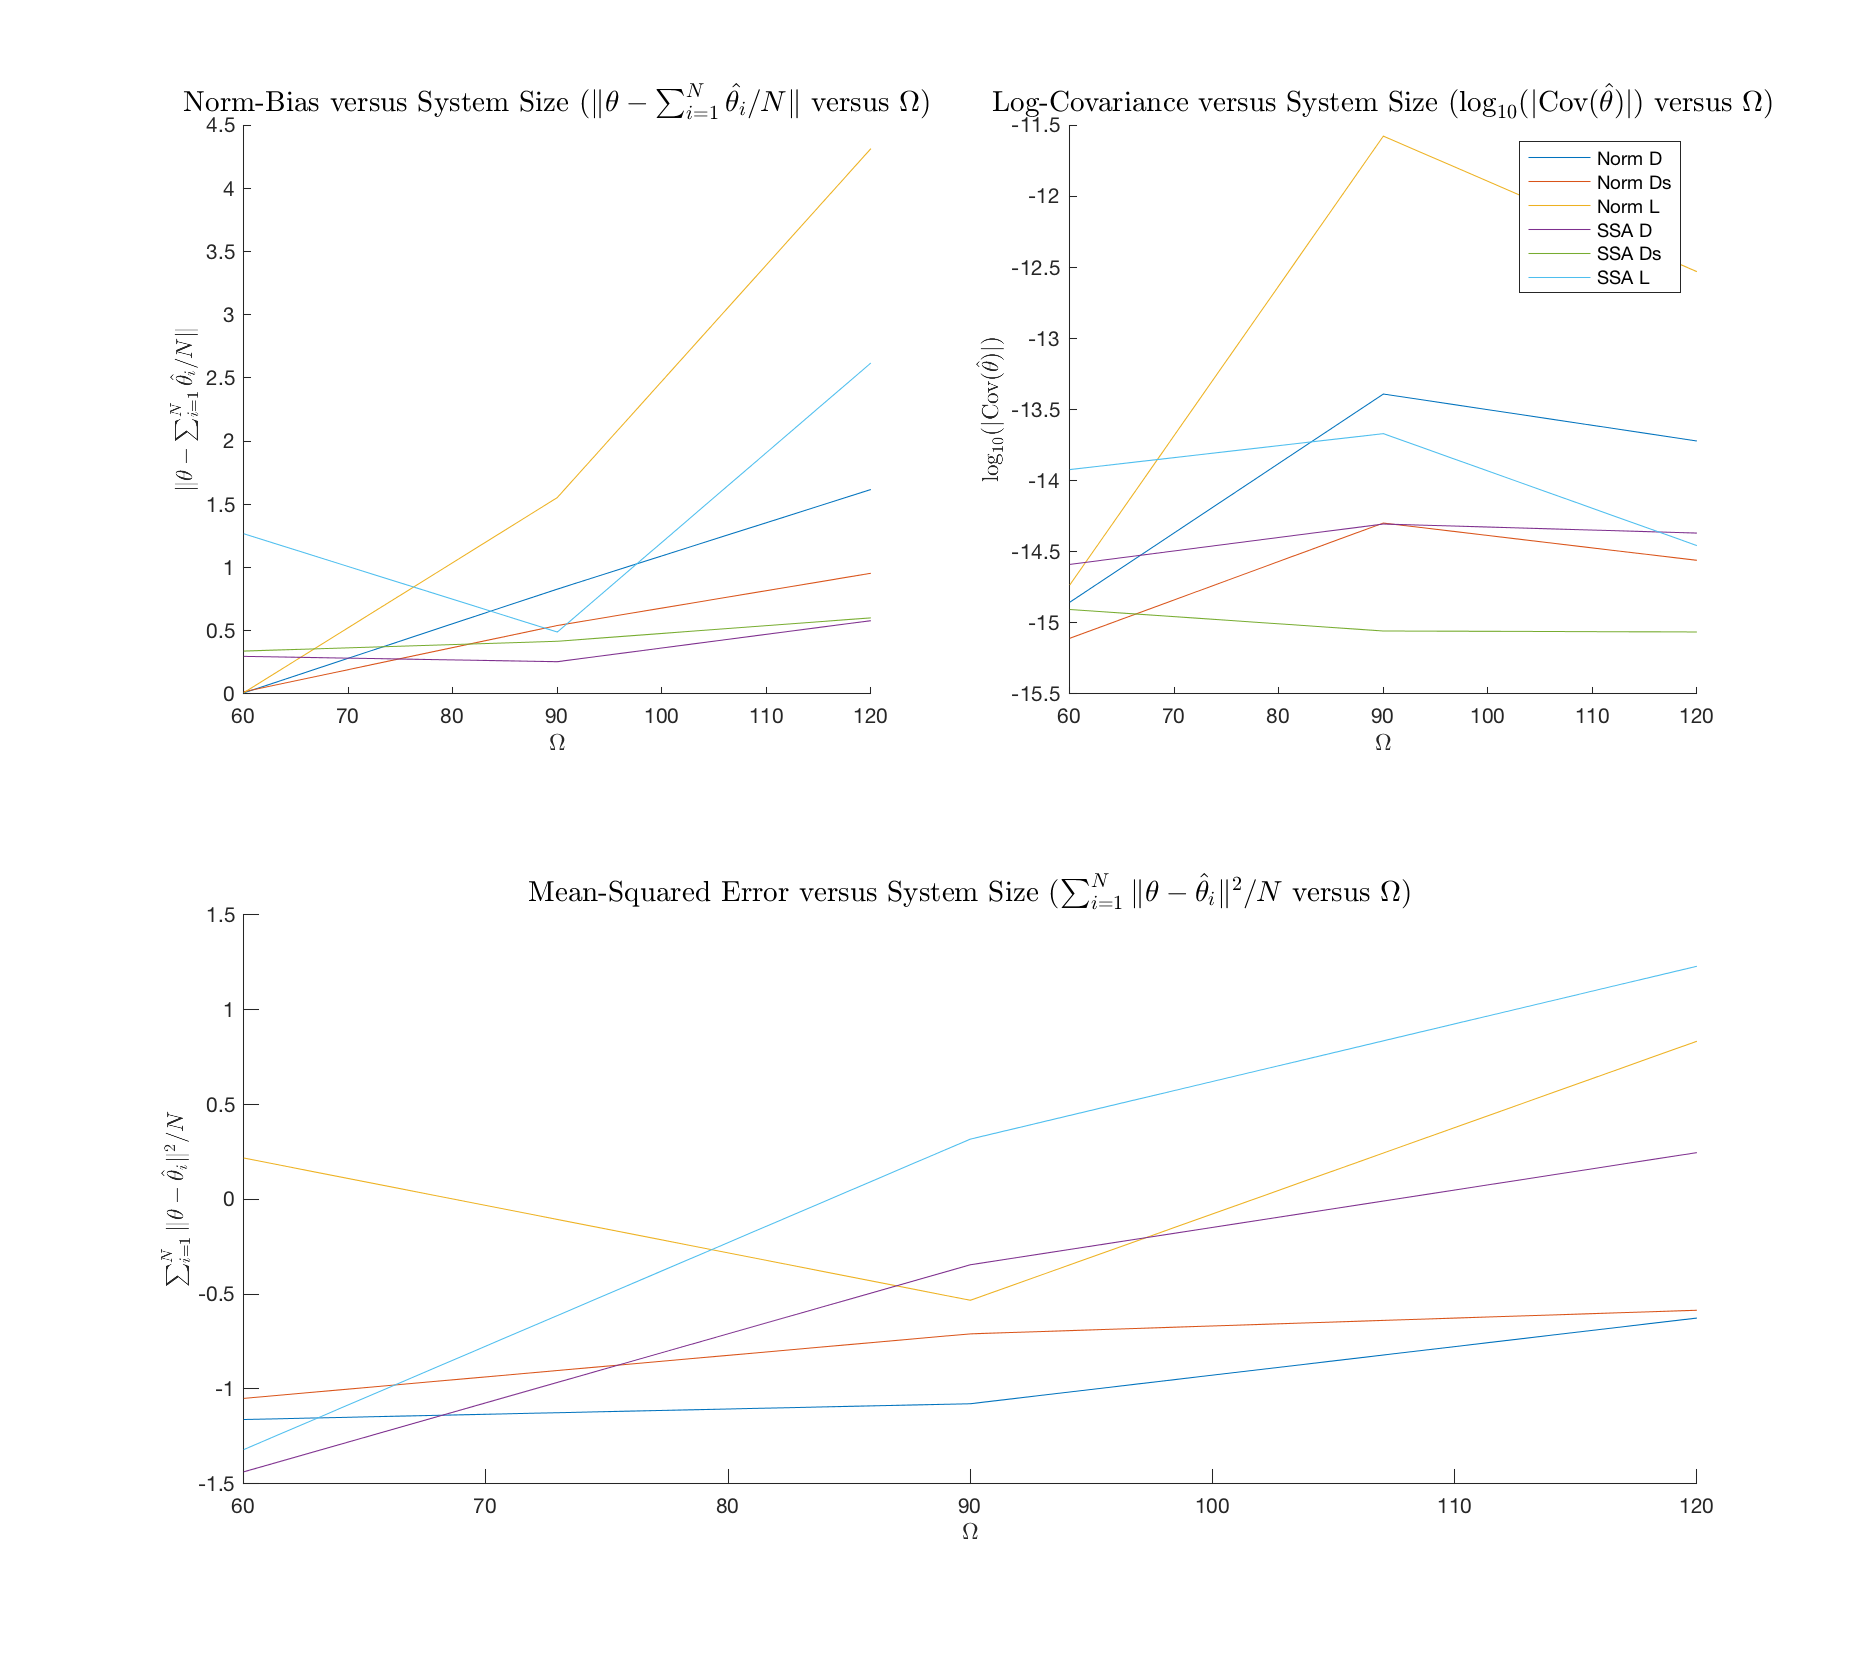
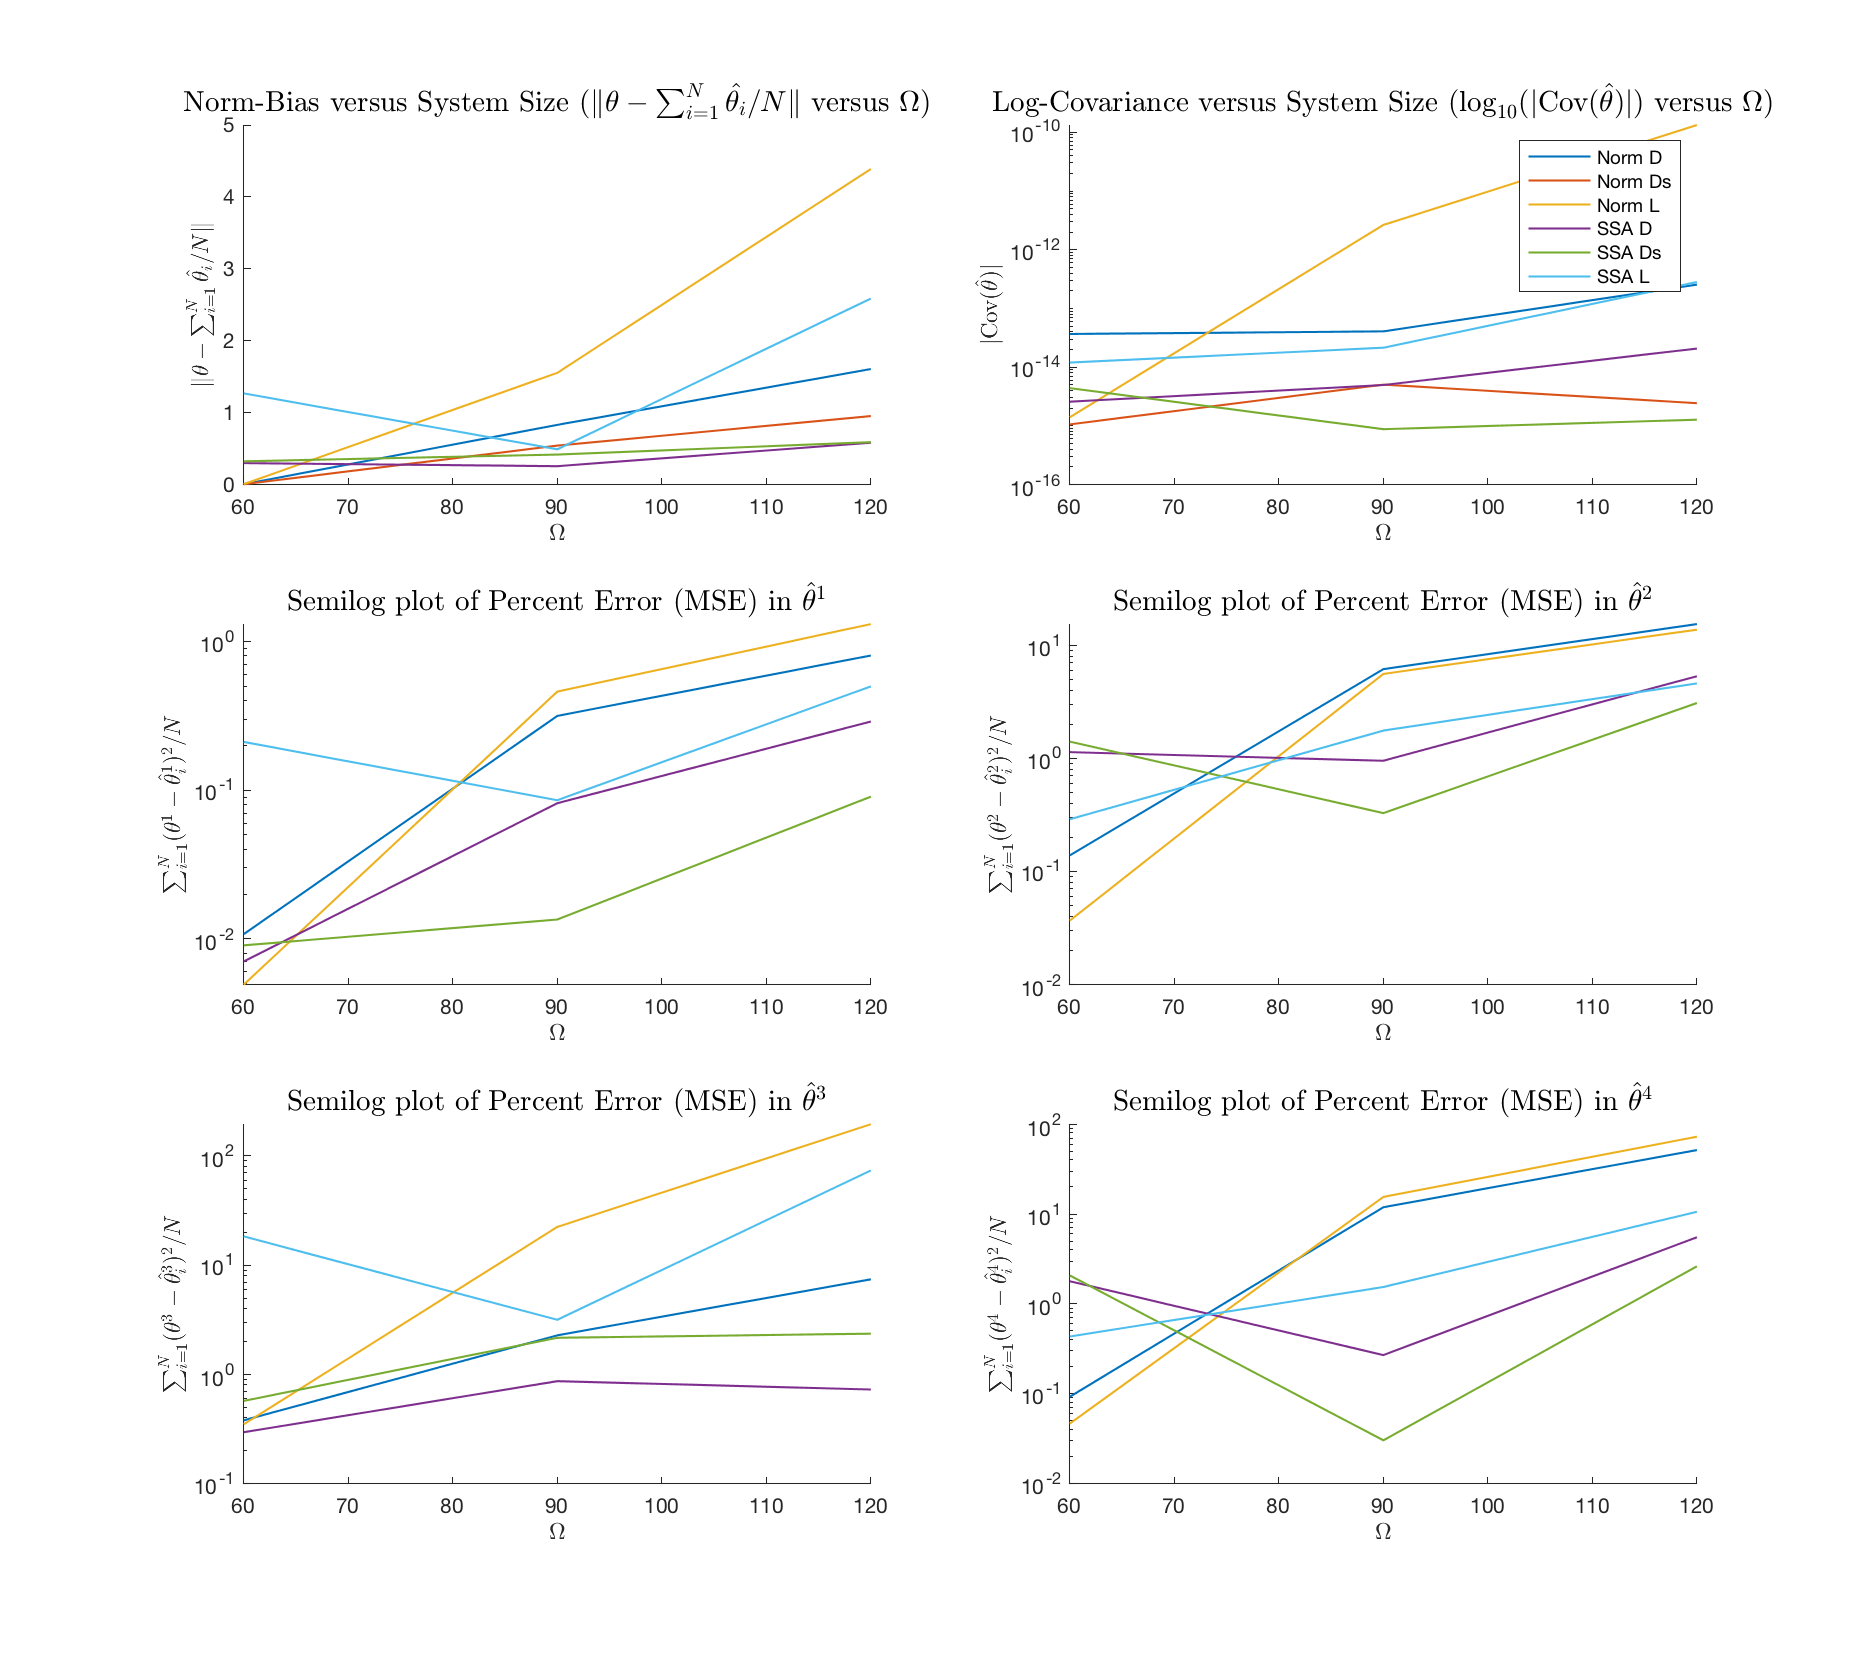
comparison plot finalized

diff --git a/1D_Michael/generateFits.m b/1D_Michael/generateFits.m
@@ -8,7 +8,7 @@ function [nans,thetas]=generateFits(numFits, numExp, numTrials, options)
     c_60 = [-12.1,73.8];
     c_90 = [-18.1,111.7];
     c_120= [-24.2,150.3];
-    par_true = [0.5,3,9,3,c_60];
+    par_true = [0.5,3,9,3,c_120];
     
     
     x_sym = SX.sym('x_sym');
@@ -36,7 +36,7 @@ function [nans,thetas]=generateFits(numFits, numExp, numTrials, options)
     pi0_func = Function('pi0_func',{par_sym,u_sym},{pi0});
     numNans=-0;
     if strcmp(options.DataSource,'SSA') 
-        if options.SystemSize == 60
+        if options.SystemSize == 120
             if strcmp(options.Optimality,'D_Optimal')
                 u = [ linspace(0,0.1,32) linspace(0.1,0.2,64) linspace(0.2,0.3,32)]; 
                 [u_opt, w_opt]=D_opt_c(par_true,Omega,u,FIM_comp(par_true,Omega,u,[0.1,0.2]),[0.1,0.2]);
@@ -49,7 +49,7 @@ function [nans,thetas]=generateFits(numFits, numExp, numTrials, options)
                 u_opt=u(k);
                 xVals = cell(numFits,length(u_opt));
                 for i=1:length(u_opt)
-                    path=strcat('1D_Michael/drive_W60/SSA_Data_60_u=',num2str(u_opt(i),'%1.6f'),'.txt');
+                    path=strcat('1D_Michael/drive_W120/SSA_Data_120_u=',num2str(u_opt(i),'%1.6f'),'.txt');
                     tmp = load(path,'.txt');
                     for j = 1:numFits
                         data = datasample(tmp,numSamp(i),'Replace',false);
@@ -95,7 +95,7 @@ function [nans,thetas]=generateFits(numFits, numExp, numTrials, options)
                 
                 xVals = cell(numFits,length(u_opt));
                 for i=1:length(u_opt)
-                    path=strcat('1D_Michael/drive_W60/SSA_Data_60_u=',num2str(u_opt(i),'%1.6f'),'.txt');
+                    path=strcat('1D_Michael/drive_W120/SSA_Data_120_u=',num2str(u_opt(i),'%1.6f'),'.txt');
                     tmp = load(path,'.txt');
                     for j = 1:numFits
                         data = datasample(tmp,numSamp(i),'Replace',false);
@@ -138,7 +138,7 @@ function [nans,thetas]=generateFits(numFits, numExp, numTrials, options)
                 end 
                 xVals = cell(numFits,numExp);
                 for i=16:inc:length(u)
-                    path=strcat('1D_Michael/drive_W60/SSA_Data_60_u=',num2str(u(round(i)),'%1.6f'),'.txt');
+                    path=strcat('1D_Michael/drive_W120/SSA_Data_120_u=',num2str(u(round(i)),'%1.6f'),'.txt');
                     tmp = load(path,'.txt');
 
                     for j = 1:numFits
@@ -177,7 +177,7 @@ function [nans,thetas]=generateFits(numFits, numExp, numTrials, options)
         end
     end
     if strcmp(options.DataSource,'Normal')
-        if options.SystemSize == 60
+        if options.SystemSize == 120
             if strcmp(options.Optimality,'D_Optimal')
                 u = [ linspace(0,0.1,32) linspace(0.1,0.2,64) linspace(0.2,0.3,32)];
                 inc = length(u)/numExp;
@@ -216,7 +216,7 @@ function [nans,thetas]=generateFits(numFits, numExp, numTrials, options)
                         for j=1:numFits 
                             sigmah=full(sigma_func(theta_t,Omega,u_opt(i),hpt));
                             sigmal=full(sigma_func(theta_t,Omega,u_opt(i),lpt));
-                            numHigh = round(full(pi0_func(c_60,u_opt(i)))*numSamp(i));
+                            numHigh = round(full(pi0_func(c_120,u_opt(i)))*numSamp(i));
                             numLow = numSamp(i)-numHigh;
                             xVals{j,round(i)}=[normrnd(hpt,sigmah,[numHigh,1]); normrnd(lpt,sigmal,[numLow,1])];
                         end
@@ -280,7 +280,7 @@ function [nans,thetas]=generateFits(numFits, numExp, numTrials, options)
                         for j=1:numFits 
                             sigmah=full(sigma_func(theta_t,Omega,u_opt(i),hpt));
                             sigmal=full(sigma_func(theta_t,Omega,u_opt(i),lpt));
-                            numHigh = round(full(pi0_func(c_60,u_opt(i)))*numSamp(i));
+                            numHigh = round(full(pi0_func(c_120,u_opt(i)))*numSamp(i));
                             numLow = numSamp(i)-numHigh;
                             xVals{j,round(i)}=[normrnd(hpt,sigmah,[numHigh,1]); normrnd(lpt,sigmal,[numLow,1])];
                         end
@@ -340,7 +340,7 @@ function [nans,thetas]=generateFits(numFits, numExp, numTrials, options)
                         for j=1:numFits 
                             sigmah=full(sigma_func(theta_t,Omega,u(round(i)),hpt));
                             sigmal=full(sigma_func(theta_t,Omega,u(round(i)),lpt));
-                            numHigh = round(full(pi0_func(c_60,u(round(i))))*numTrials);
+                            numHigh = round(full(pi0_func(c_120,u(round(i))))*numTrials);
                             numLow = numTrials-numHigh;
                             xVals{j,round(i)}=[normrnd(hpt,sigmah,[numHigh,1]); normrnd(lpt,sigmal,[numLow,1])];
                         end
